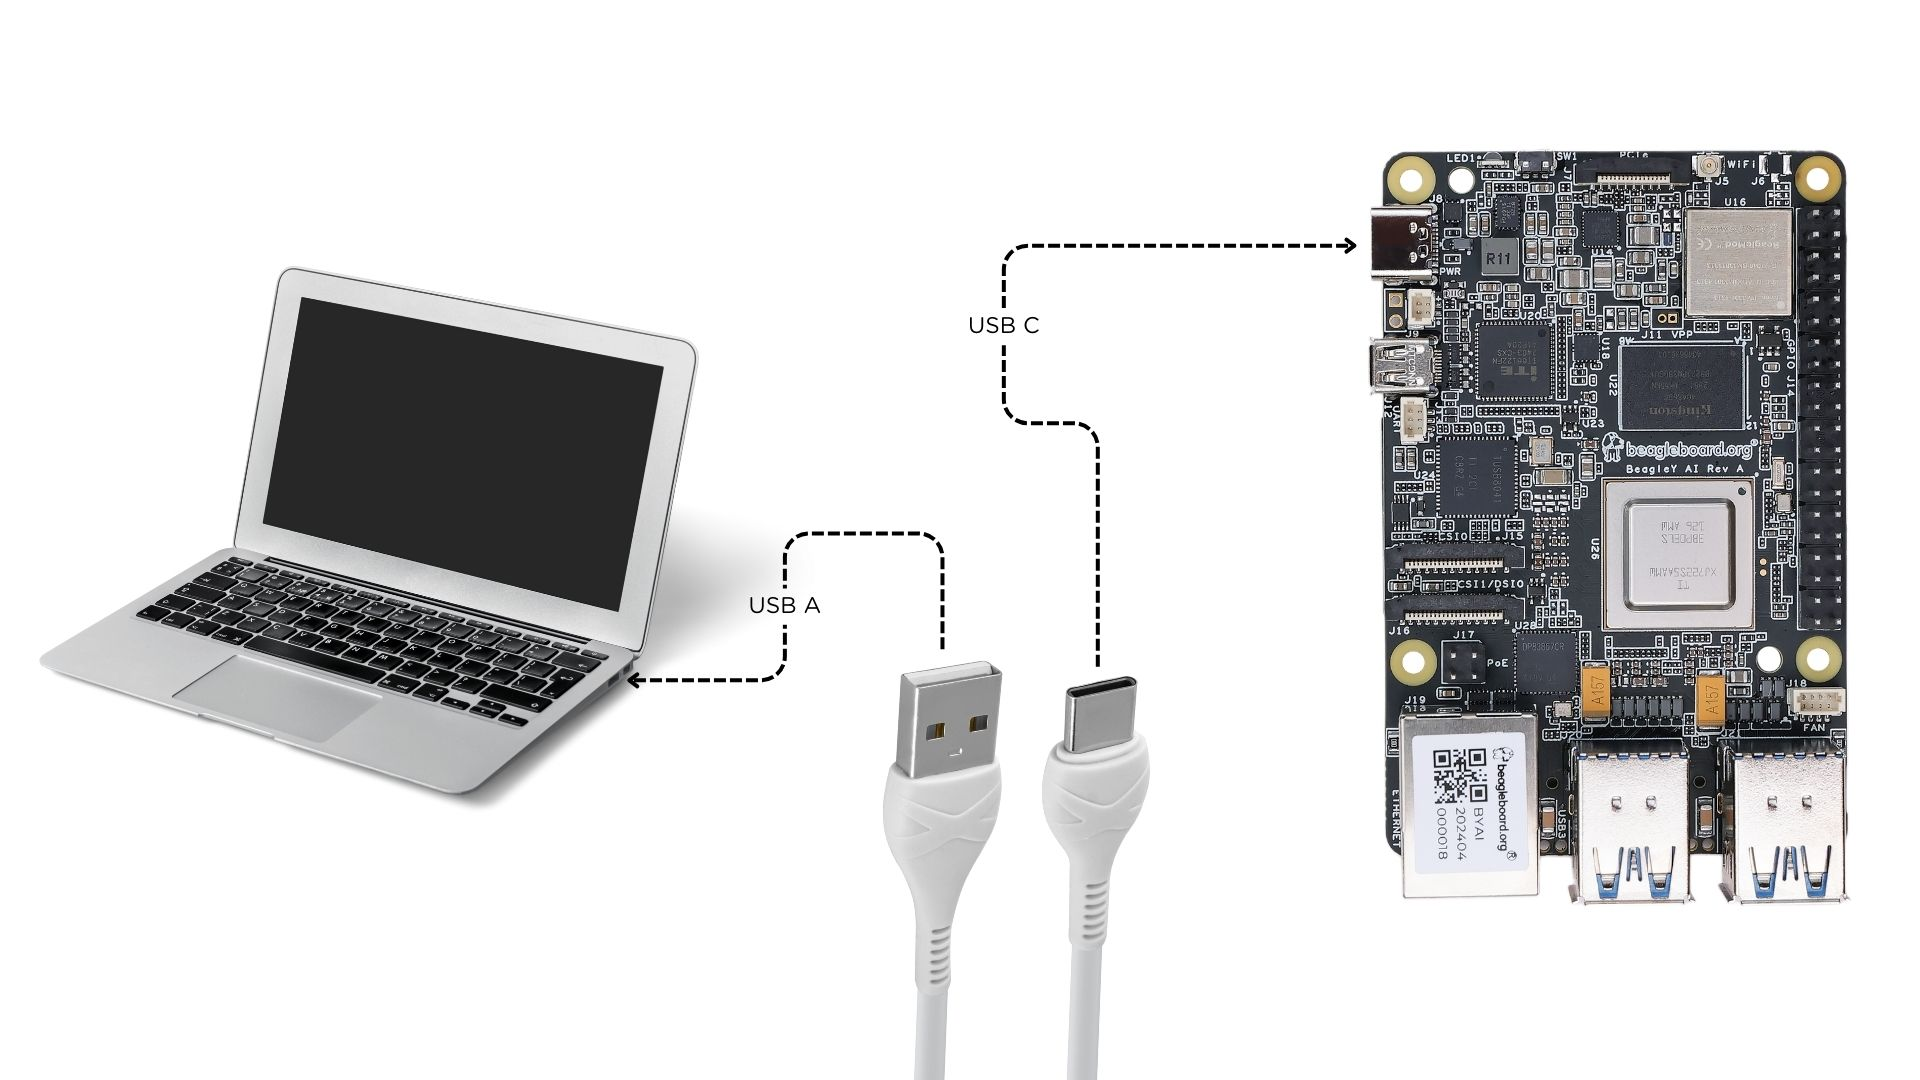
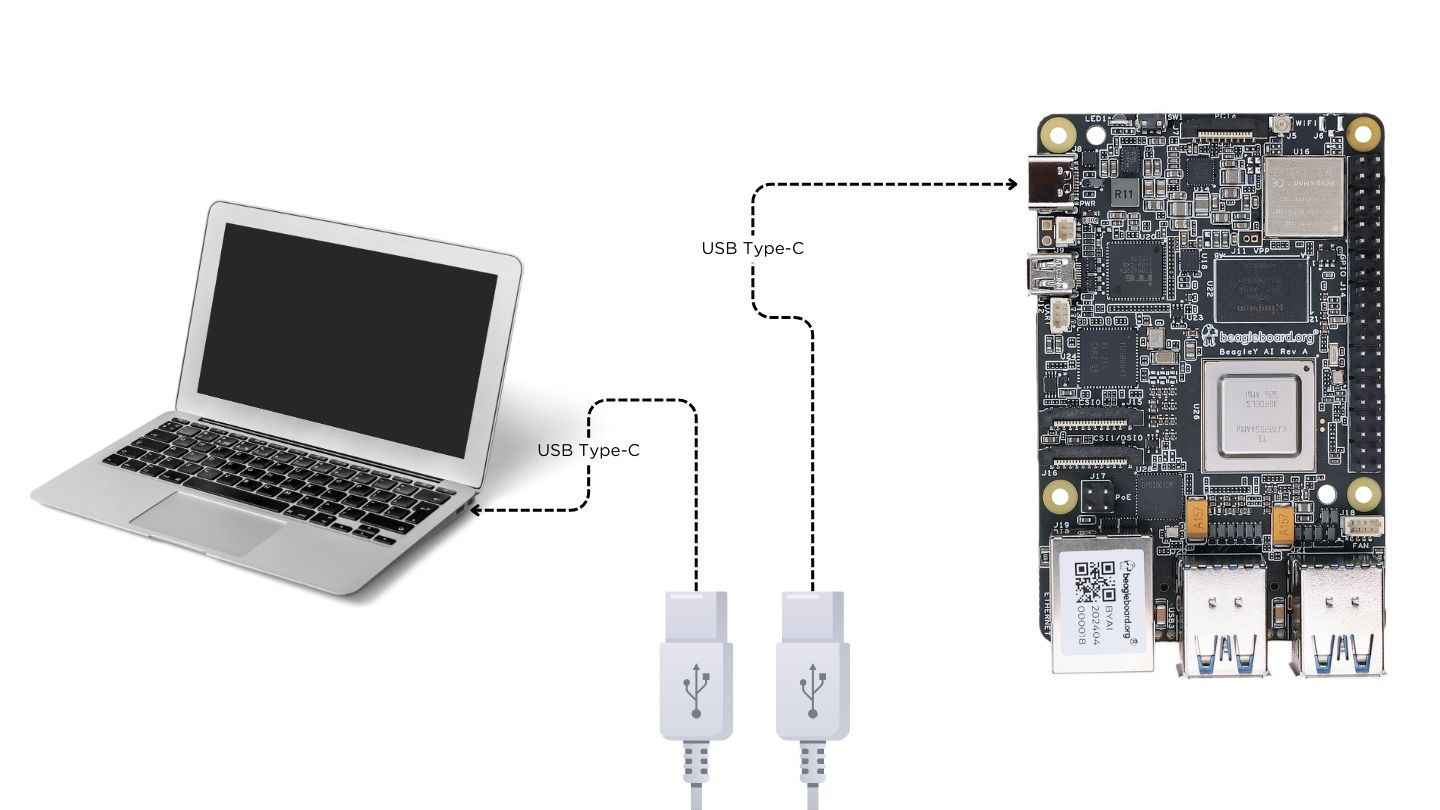
Update power section and sysconf.txt usage instructions

diff --git a/boards/beagley/ai/02-quick-start.rst b/boards/beagley/ai/02-quick-start.rst
@@ -22,8 +22,8 @@ Getting started
 To get started your BeagleY-AI you need the following:
 
 1. :ref:`5V @ 3A power supply <accessories-power-supplies>`
-2. MicroSD Card (32GB)
-3. Boot media (Software image)
+2. MicromicroSD card (32GB)
+3. :ref:`beagley-ai-boot-media`
 
 You may need additional accessories based on the mode of operation, you can use your BeagleY-AI in different ways.
 
@@ -41,39 +41,81 @@ To power the board you can either connect it to a dedicated power supply like a 
 can provide 5V ≥ 3A. Checkout the :ref:`docs power supply page <accessories-power-supplies>` for power supply recommendations.
 
 .. note:: 
-    Instead of using a :ref:`power supply or power adapter <accessories-power-supplies>` if you are using a :ref:`USB type-A to 
-    type-C cable or type-C to type-C cable <accessories-cables-usb>` to connect the board to your laptop/PC then make sure it can supply at least 1000mA.
+    Instead of using a :ref:`power supply or power adapter <accessories-power-supplies>` if you are using a :ref:`Type-C to Type-C cable 
+    <accessories-cables-usb>` to connect the board to your laptop/PC then make sure it can supply at least 1000mA.
 
 .. _beagley-ai-boot-media:
 
 Boot Media (Software image)
 *****************************
 
-.. todo:: Update this section to use latest boot media (software image) for BeagleY-AI and add instructions to add username and password under ``sysconf.txt``.
+.. todo:: Update this section to use latest boot media (software image) for BeagleY-AI.
 
 Download the boot media from
 `https://www.beagleboard.org/distros/beagley-ai-debian-xfce-12-5-2024-03-25 <https://www.beagleboard.org/distros/beagley-ai-debian-xfce-12-5-2024-03-25>`_ 
-and flash it on a micro SD Card using using `Balena Etcher <https://etcher.balena.io/>`_ following these steps:
+and flash it on a micro microSD card using using `Balena Etcher <https://etcher.balena.io/>`_ following these steps:
 
 1. Select downloaded boot media
-2. Select SD Card 
+2. Select microSD card 
 3. Flash!
 
 .. tip:: For more detailed steps checkout the :ref:`beagleboard-getting-started` under support section of the documentation.
 
 .. figure:: images/balena-etcher.*
     :align: center
-    :alt: Flashing BeagleY-AI boot image (software image) to sd Card
+    :alt: Flashing BeagleY-AI boot image (software image) to microSD card
 
-    Flashing BeagleY-AI boot image (software image) to sd Card
+    Flashing BeagleY-AI boot image (software image) to microSD card
 
-Once flashed, you can insert the SD card into your BeagleY-AI as shown in the image below:
+Once the microSD card is flashed you should see ``BOOT`` and ``rootfs`` mounted on your system as shown in image below,
+
+.. figure:: images/disk.*
+    :align: center
+    :alt: Flashed microSD card mounted partitions
+
+    Flashed microSD card mounted partitions
+
+Under ``BOOT`` partition open ``sysconf.txt`` to edit login ``username`` and ``password``.
+
+.. figure:: images/sysconf.*
+    :align: center
+    :alt: sysconf file under BOOT partition
+
+    sysconf file under BOOT partition
+
+In ``sysconf.txt`` file you have to edit the two lines highlighted below. 
+
+.. callout::
+
+    .. code-block:: text
+        :linenos:
+        :lineno-start: 29
+        :emphasize-lines: 2,5
+
+        # user_name - Set a user name for the user (1000)
+        #user_name=beagle <1>
+
+        # user_password - Set a password for user (1000)
+        #user_password=FooBar <2>
+
+    .. annotations::
+
+        <1> If ``boris`` is your username, update ``#user_name=beagle`` to ``user_name=boris``
+
+        <2> If ``bash`` is your password, update ``#user_password=FooBar`` to ``user_password=bash``
+
+.. note:: 
+    Make sure to remove ``#`` from in front of these lines else the lines will still be 
+    interpreted like a comment and your username & password will not be updated.
+
+Once username and password are updated, you can insert the microSD card into 
+your BeagleY-AI as shown in the image below:
 
 .. figure:: images/beagley-ai-micro-sd-card.*
     :align: center
-    :alt: Insert sd card in BeagleY-AI
+    :alt: Insert microSD card in BeagleY-AI
 
-    Insert sd card in BeagleY-AI
+    Insert microSD card in BeagleY-AI
 
 .. _beagley-ai-usb-tethering:
 
@@ -81,17 +123,17 @@ USB Tethering
 **************
 
 .. note:: 
-    If you are using the board with a fan or running a heavy task you should always power 
-    the board with a dedicated power supply that can supply 5V ≥ 3A. 
+    If you are using the board with a fan or running a computationally intensive 
+    task you should always power the board with a dedicated power supply that can supply 5V ≥ 3A (15W+). 
 
-    As per USB standards these are the current that each cable can supply:
+    As per USB standards these are the current at 5V that each downstream USB port type can (max) supply:
 
-    - Type-A to Type-C - 900mA
-    - Type-C to Type-C - 1500mA
+    - USB Type-A 3.x port - 900mA (4.5W)
+    - USB Type-C 1.2 port - 1500mA (7.5W) to 3000mA (15W)
 
     Thus it's recommended to use type-C to type-C cable.
 
-To initially test your board, you can connect the board directly to your computer using a ``type-A to type-C`` or ``type-C to type-C`` cable shown in the image below.
+To initially test your board, you can connect the board directly to your computer using a ``type-C to type-C`` cable shown in the image below.
 
 .. figure:: images/beagley-ai-tethered-connection.*
     :align: center
@@ -112,7 +154,7 @@ or command prompt (`Windows <https://www.wikihow.com/Open-the-Command-Prompt-in-
 
 .. tip:: If you are not able to find your beagle at ``192.168.7.2`` make sure to checkout :ref:`start-browse-to-beagle` to resolve your connection issue.
 
-.. note:: If you have not updated your default username and password during :ref:`beagley-ai-boot-media`, you must update the default password at this step to something safer.
+.. important:: If you have not updated your default username and password during :ref:`beagley-ai-boot-media`, you must update the default password at this step to something safer.
 
 .. figure:: images/ssh-connection.*
     :align: center 
@@ -166,7 +208,7 @@ To setup your BeagleY-AI for standalone usage, you need the following additional
 3. Wireless keyboard & mice combo
 4. Ethernet cable (Optional)
 
-Make sure you have the sd Card with boot media (software image) inserted in to the BeagleY-AI. Now connect,
+Make sure you have the microSD card with boot media (software image) inserted in to the BeagleY-AI. Now connect,
 
 1. microHDMI to BeagleY-AI and full size HDMI to monitor
 2. keyboard and mice combo to one of the four USB port of BeagleY-AI
@@ -190,13 +232,13 @@ If everything is connected properly you should see four penguins on your monitor
 
 When prompted, log in using the updated login credentials you updated during the USB tethering step.
 
-.. note:: You can not update login credentials at this step, you must update them during USB tethering step!
+.. Important:: You can not update login credentials at this step, you must update them during boot media (software image) micrSD card flashing or USB tethering step!
 
 .. figure:: images/login.*
     :align: center
-    :alt: BeagleY-AI login
+    :alt: BeagleY-AI XFCE desktop login
 
-    BeagleY-AI login
+    BeagleY-AI XFCE desktop login
 
 Once logged in you should see the splash screen shown in the image below:
 
@@ -210,9 +252,9 @@ Test network connection by running ping 8.8.8.8
 
 .. figure:: images/ping-test.*
     :align: center
-    :alt: BeagleY-AI ping test
+    :alt: BeagleY-AI network ping test
 
-    BeagleY-AI ping test
+    BeagleY-AI network ping test
 
 Explore and build with your new BeagleY-AI board!
 
